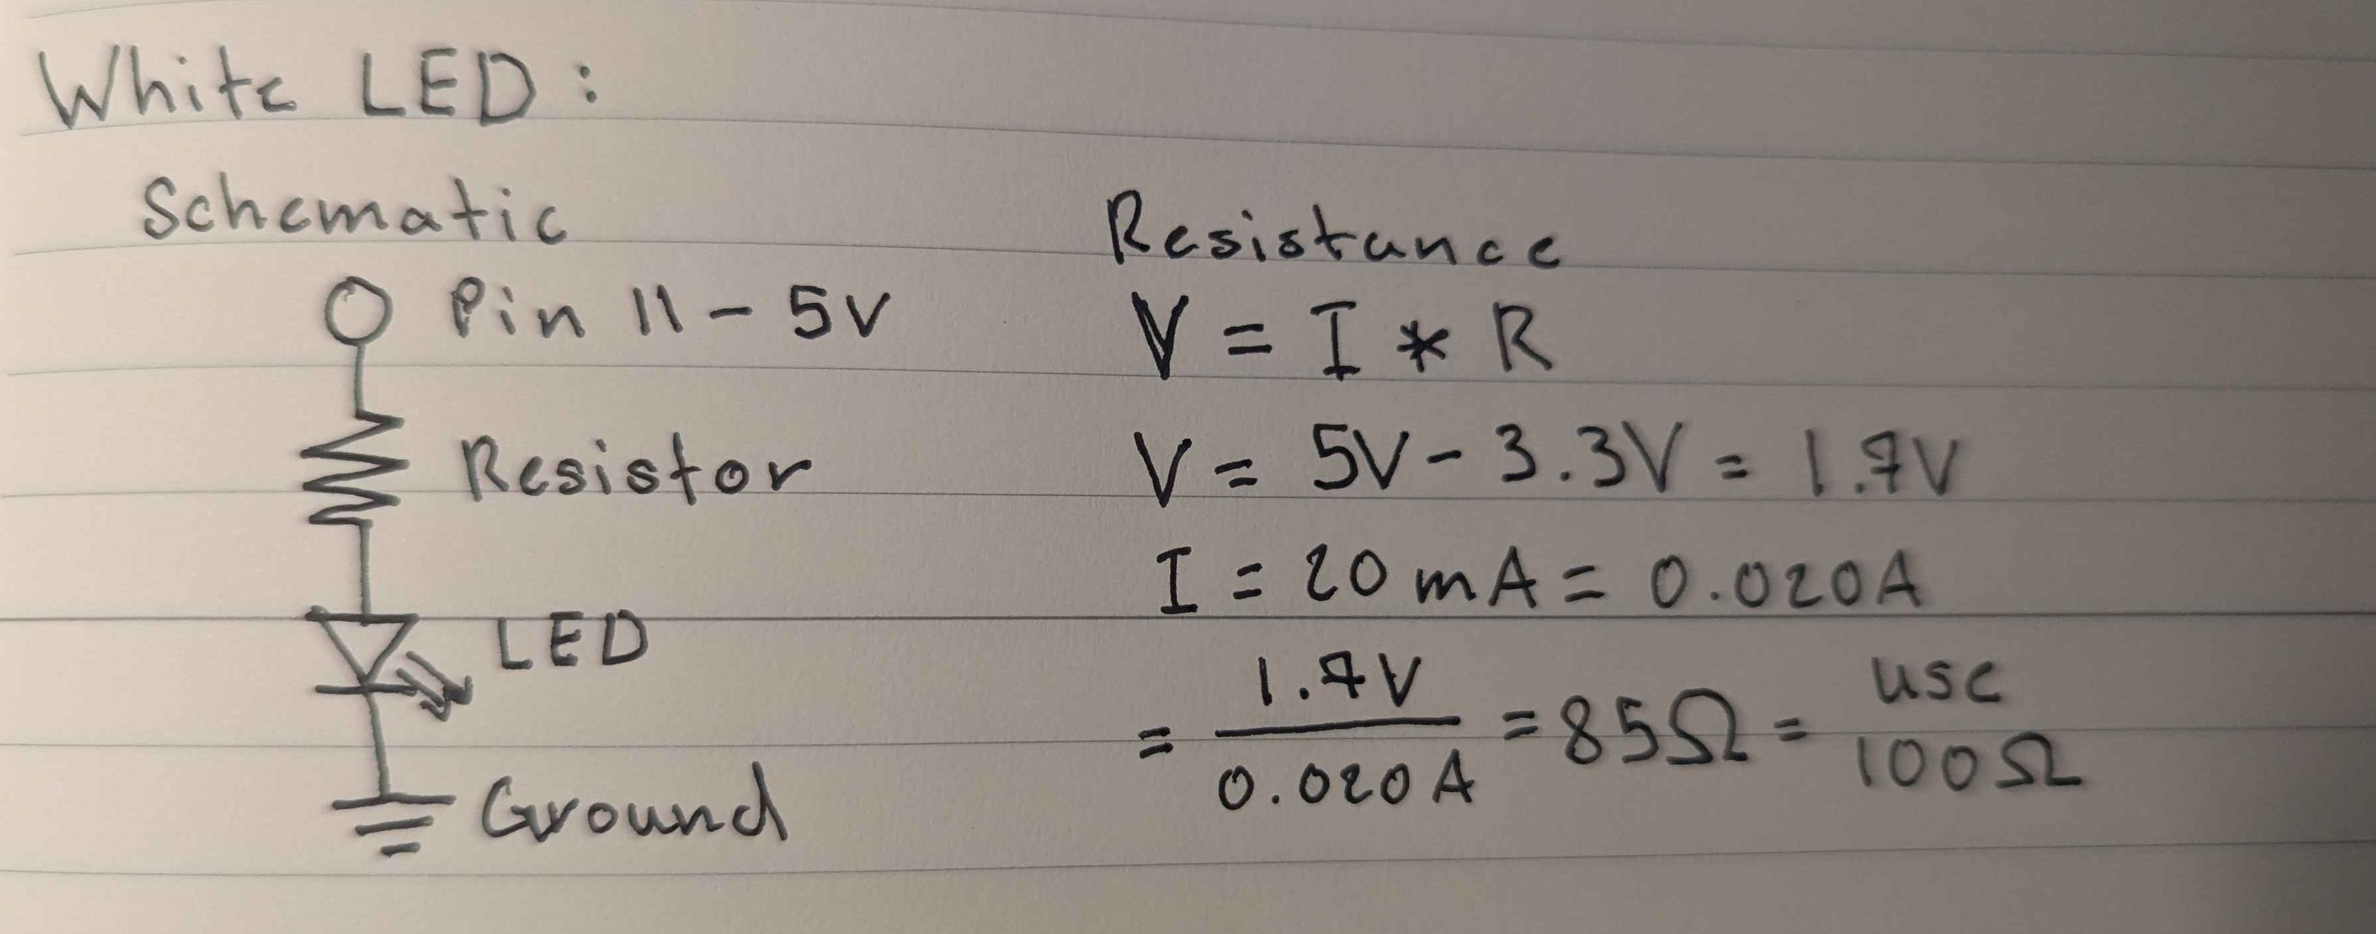
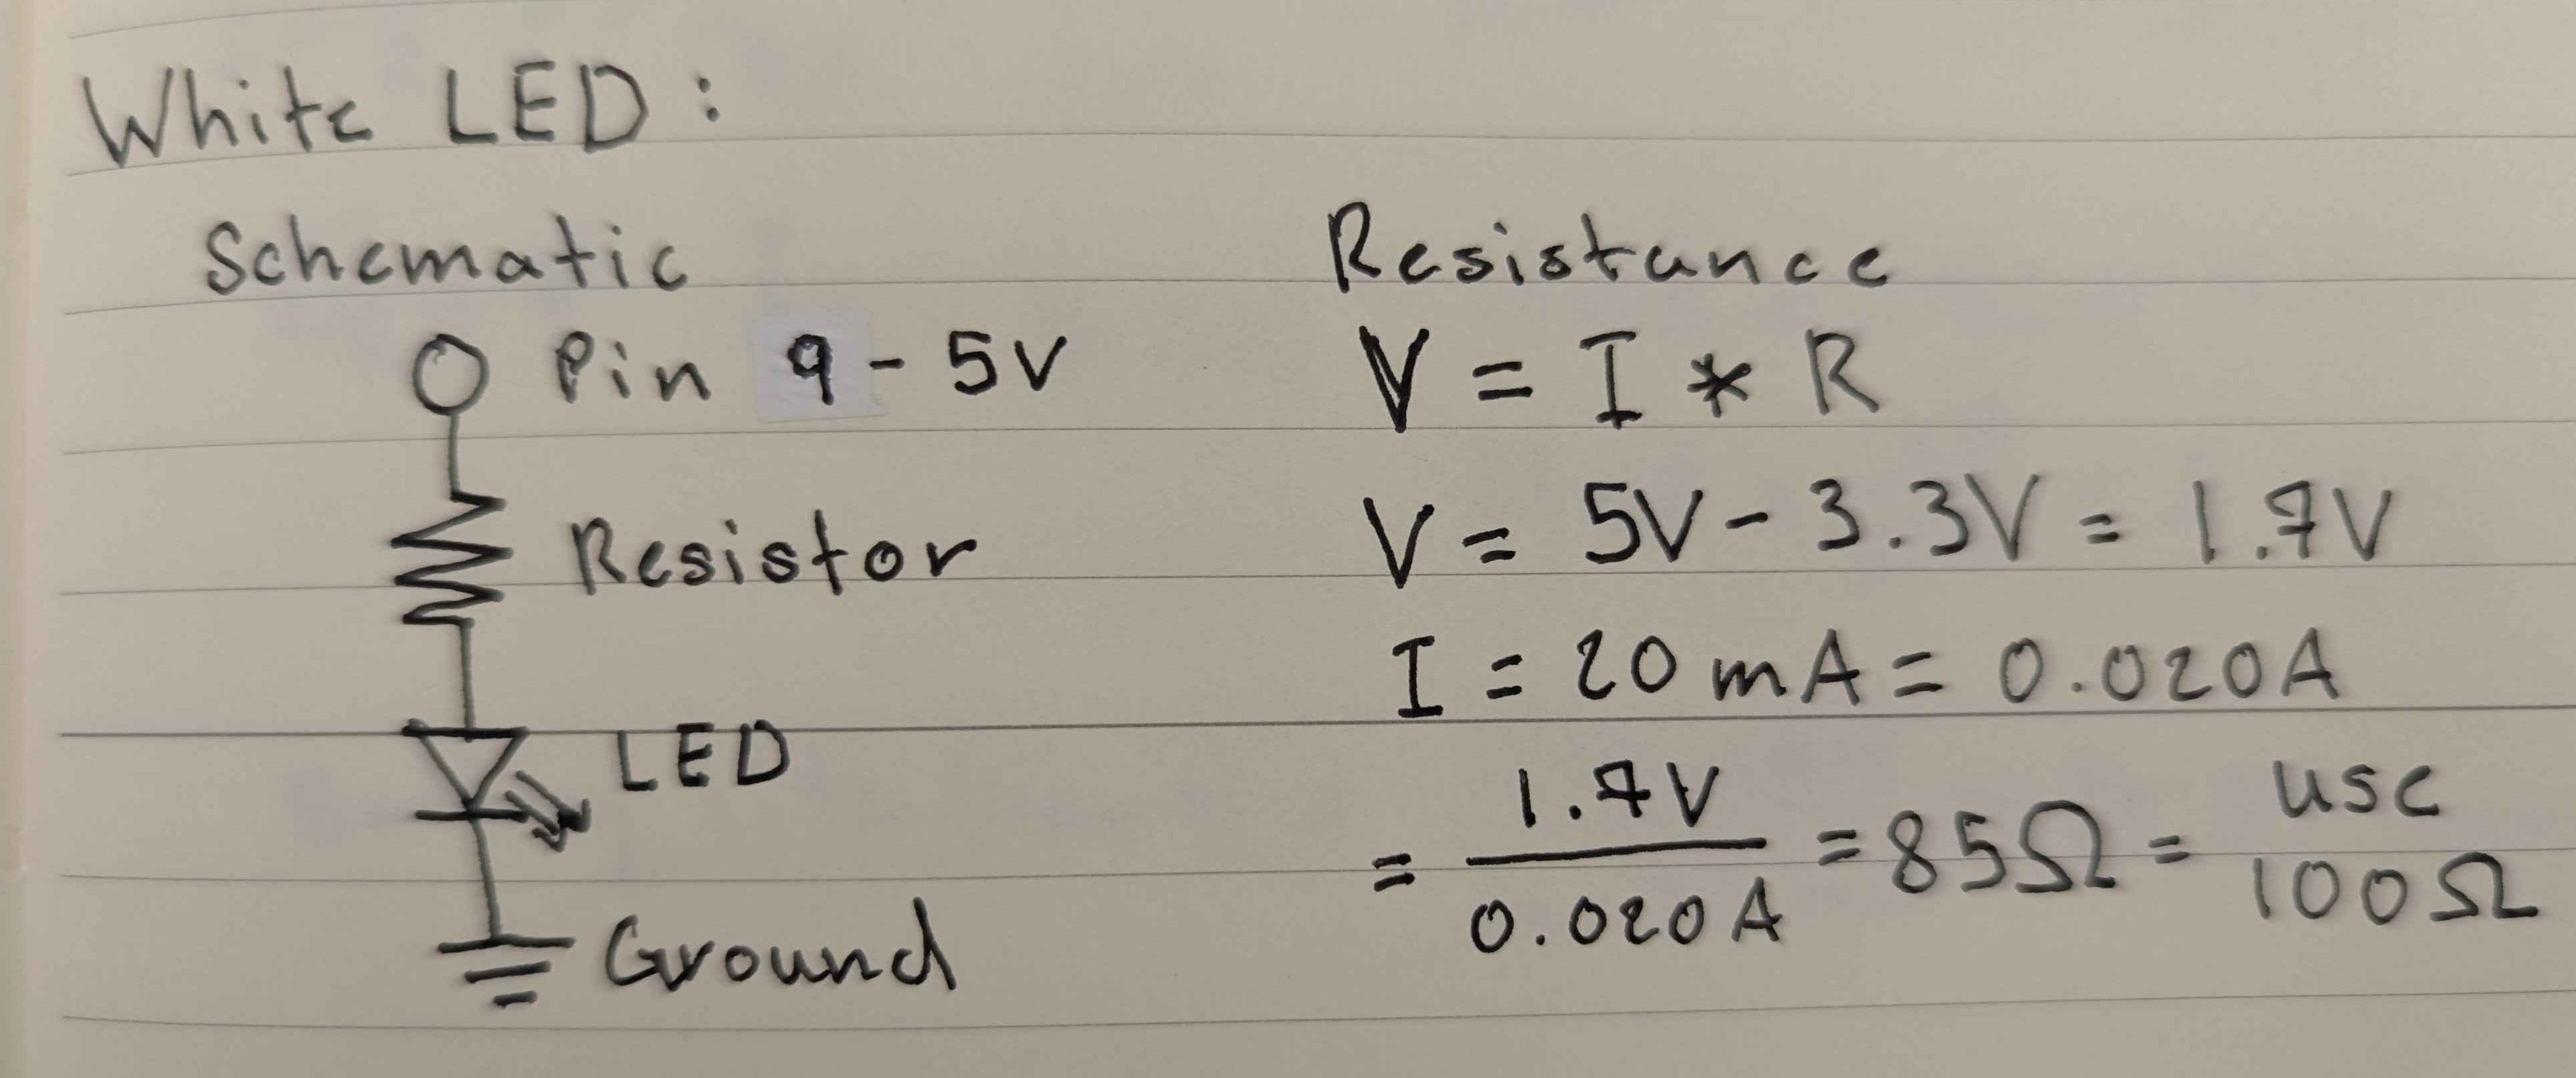
Made edits to Fade assignment

diff --git a/a2.html b/a2.html
@@ -56,15 +56,12 @@
 
           <section>
             <div class="schematicInner">
-              <img src="imgs/FadeButtonjpg.jpg">
+              <img src="imgs/FadeButton.jpg">
               <article>
                 The button, being the newest component for this assignment, does
-                not have a voltage drop like the LEDs. Since we aim to limit the
-                current to 20mA, calculating the required resistance results to
-                250 ohms. However, we use a 330-ohm resistor instead, as that is
-                the closest value available. Ensuring the circuit
-                remains safe when the button is pressed, completing the circuit
-                and allowing current to flow without exceeding its limits.
+                not have a voltage drop like the LEDs. However, we use a 1000-ohm
+                resistor instead, ensuring the circuit is both safe but also efficient
+                when it comes to battery peservation.
               </article>
             </div>
           </section>
@@ -86,13 +83,14 @@
             // Constants
             const int buttonOut = 2; // Output for the button
             const int buttonIn = 3; // Input for the button
-            const int whiteLED = 11; // Output for the white LED
-            const int redLED = 12; // Output for the red LED
-            const int yellowLED = 13; // Output for the yellow LED
+            const int whiteLED = 9; // Output for the white LED
+            const int redLED = 10; // Output for the red LED
+            const int yellowLED = 11; // Output for the yellow LED
+            const int timer = 10; // Delay timer
 
             // Pin Arrays
-            const int setupPins[] = {buttonOut, whiteLED, redLED, yellowLED}; // Array to hold all LED pins
-            const int fadePins[] = {redLED, yellowLED}; // Array to hold red and yellow LED pins for fading
+            const int setupPins[] = {buttonOut, whiteLED, redLED, yellowLED}; // Array to hold all setup pins
+            const int fadePins[] = {whiteLED, redLED, yellowLED}; // Array to hold all LED pins for fading
 
             // Variables
             int buttonState = 0; // Variable to store the current state of the button
@@ -110,15 +108,22 @@
               digitalWrite(2, HIGH); // Provide constant power to the button circuit to detect when pressed
               buttonState = digitalRead(buttonIn); // Read the current state of the button
 
-              if (buttonState == HIGH) { // Check if the button is pressed
-                digitalWrite(whiteLED, LOW); // Turn off the white LED
-                for (int i = 0; i < 2; i++) { // Loop through the red and yellow LEDs
-                  analogWrite(fadePins[i], 130); // Set the brightness of each LED to 130
+              if (buttonState != HIGH) { // Check if the button is pressed
+                for (int i = 0; i < 3; i++) { // Loop through the LEDs
+                  digitalWrite(fadePins[i], LOW); // Turn off the LEDs
                 }
               } else { // If the button is not pressed
-                digitalWrite(whiteLED, HIGH); // Turn on the white LED
-                for (int i = 0; i < 2; i++) { // Loop through the red and yellow LEDs
-                  digitalWrite(fadePins[i], LOW); // Turn off the red and yellow LEDs
+                for(int i = 0; i < 255; i++) { // Incremenet through LED values
+                  for (int j = 0; j < 3; j++) { // Loop through the LEDs
+                    analogWrite(fadePins[j], i); // Set the brightness of each LED to current level
+                    delay(timer); // Delay for the LEDs
+                  }
+                }
+                for(int i = 255; i >= 0; i--) { // Decrement through LED values
+                  for (int j = 0; j < 3; j++) { // Loop through the LEDs
+                    analogWrite(fadePins[j], i); // Set the brightness of each LED to current level
+                    delay(timer); // Delay for the LEDs
+                  }
                 }
               }
             }
